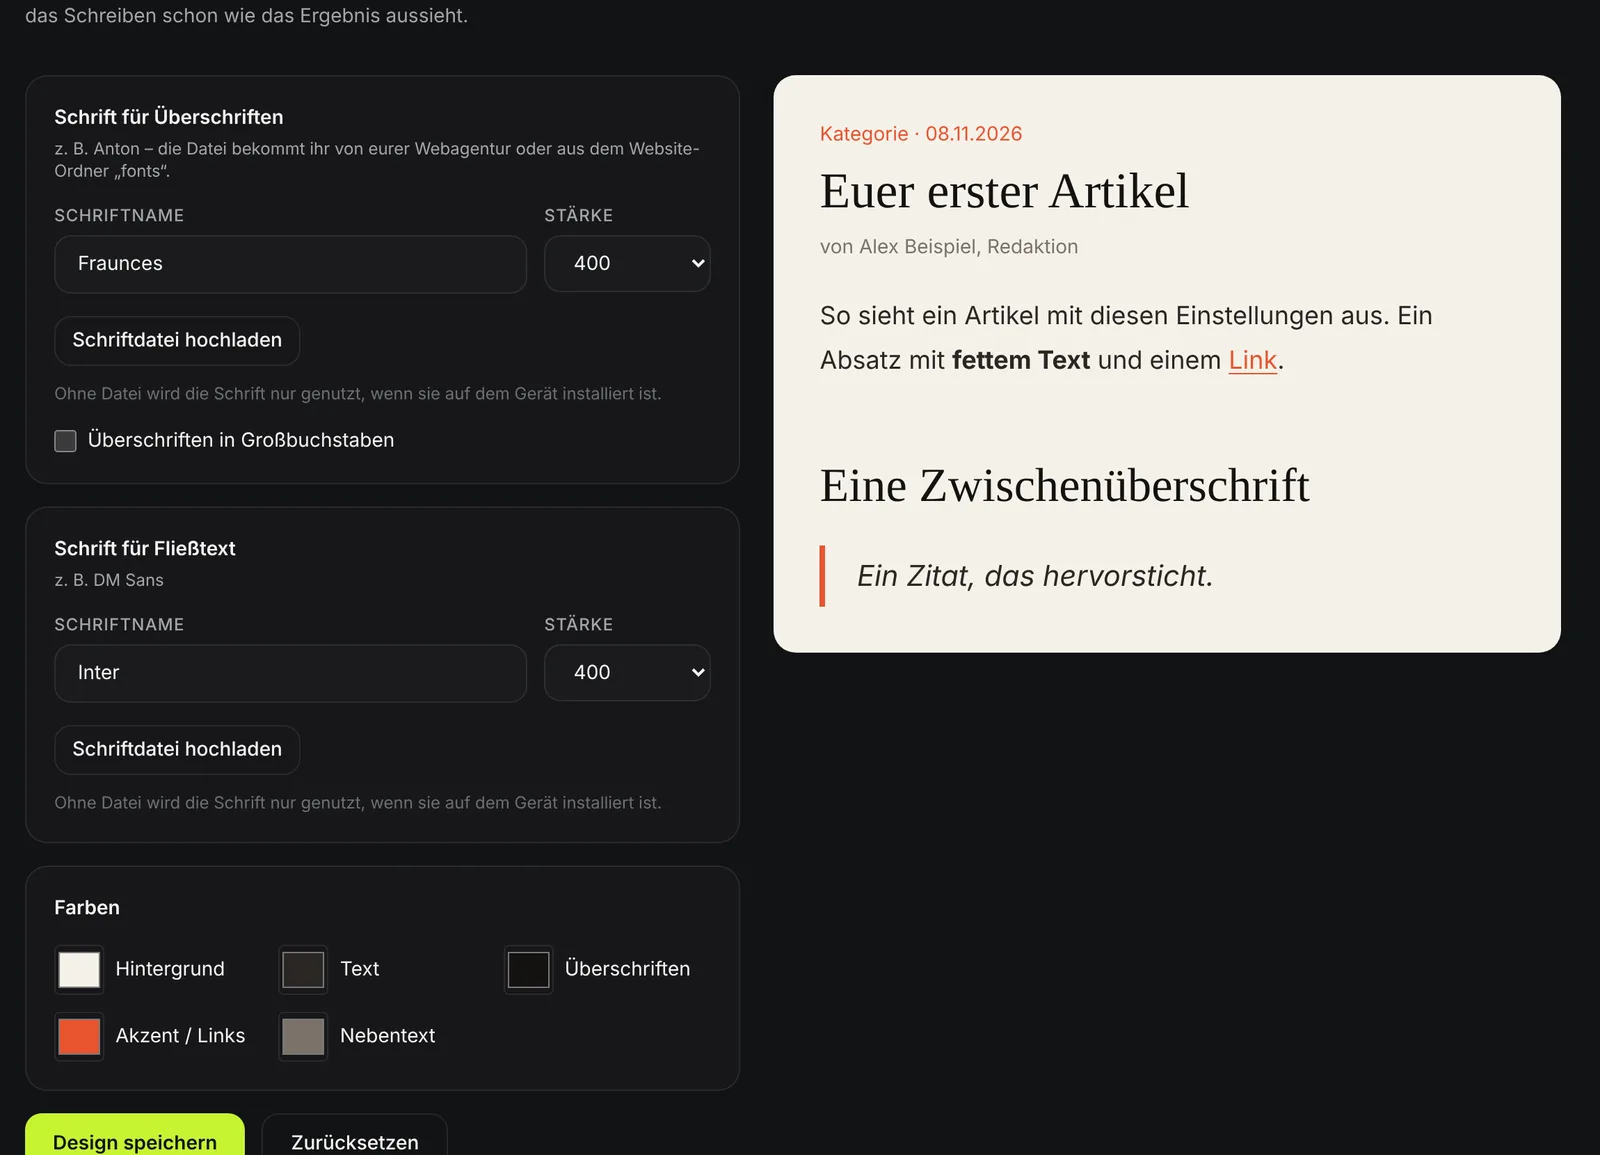
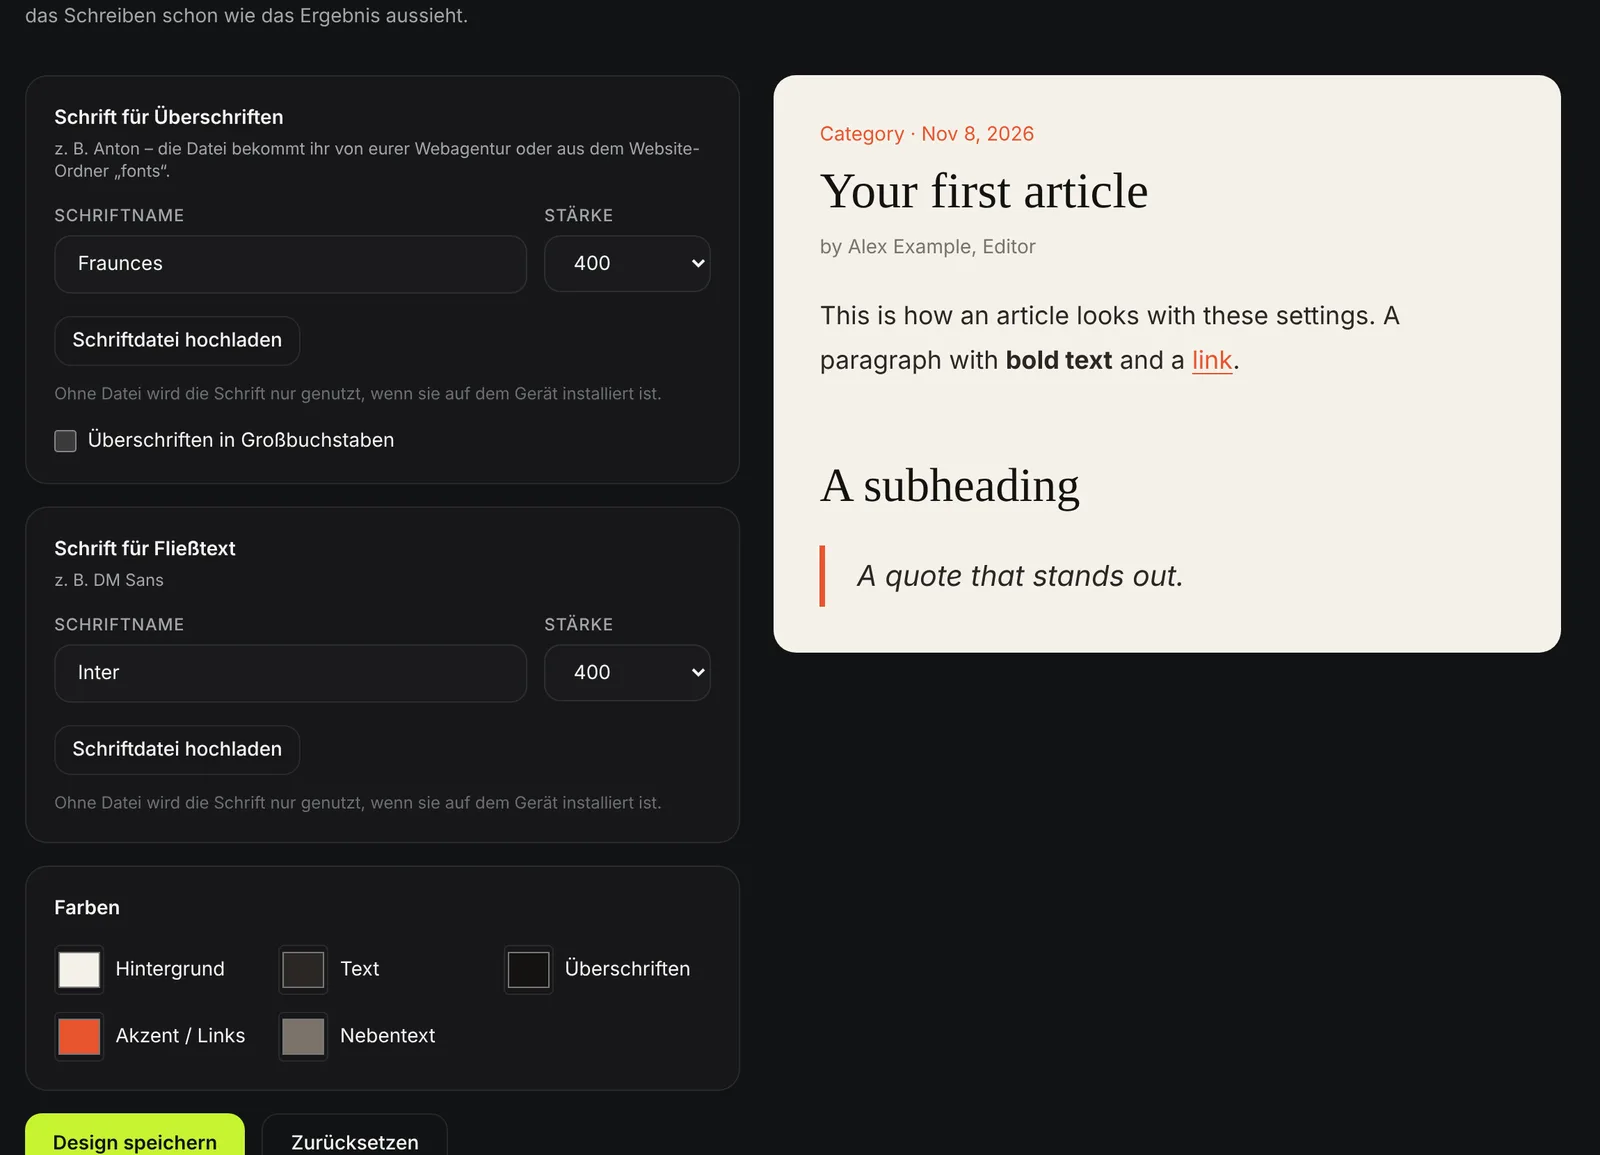
Produktseite Blog: eigene Bilder, englische Beispiele, Artikel-Abschnitt

diff --git a/products/codenova-blog.html b/products/codenova-blog.html
@@ -14,7 +14,9 @@
   <meta property="og:title" content="CodeNova Blog – The blog tool that lives on your website">
   <meta property="og:description" content="Write, approve and publish – directly on your own website, in your design. Coming soon.">
   <meta property="og:url" content="https://codenovalabs.net/products/codenova-blog">
-  <meta property="og:image" content="https://codenovalabs.net/assets/img/blog/site.webp">
+  <meta property="og:image" content="https://codenovalabs.net/assets/img/blog/og-blog.jpg">
+  <meta property="og:image:width" content="1200">
+  <meta property="og:image:height" content="630">
   <meta name="twitter:card" content="summary_large_image">
   <link rel="preload" href="/assets/fonts/space-grotesk-latin-700-normal.woff2" as="font" type="font/woff2" crossorigin>
   <link rel="stylesheet" href="/assets/style.css?v=4">
@@ -49,6 +51,7 @@
   <main>
     <!-- Hero -->
     <section class="p-hero">
+      <div class="p-hero-media" aria-hidden="true"><img src="/assets/img/blog/blog-hero.webp" alt="" width="1376" height="768" fetchpriority="high"></div>
       <div class="bg" aria-hidden="true"></div>
       <div class="wrap">
         <div>
@@ -126,10 +129,32 @@
       </div>
     </section>
 
-    <!-- Freigabe & Design -->
+    <!-- Auf der Kundenseite -->
     <section class="divider">
       <div class="wrap">
         <div class="shot flip reveal">
+          <figure class="browser">
+            <div class="bar" aria-hidden="true"><i></i><i></i><i></i><span>your-website.com/journal?artikel=five-lessons</span></div>
+            <img src="/assets/img/blog/article.webp" width="1400" height="1465" loading="lazy" alt="A published article on a studio website with cover photo, text, subheading and an author box with portrait">
+          </figure>
+          <div>
+            <span class="label">on your website</span>
+            <h3>Readers never leave your site.</h3>
+            <p>Every article opens right on your own website – with your header, your navigation and your footer. Author boxes with photo and bio give your writers a face.</p>
+            <ul class="checks">
+              <li>Overview with category filters and “load more”</li>
+              <li>Article pages with reading time and author box</li>
+              <li>Page title, description and structured data for Google</li>
+            </ul>
+          </div>
+        </div>
+      </div>
+    </section>
+
+    <!-- Freigabe & Design -->
+    <section class="divider">
+      <div class="wrap">
+        <div class="shot reveal">
           <figure class="browser">
             <div class="bar" aria-hidden="true"><i></i><i></i><i></i><span>blog.codenovalabs.net · design</span></div>
             <img src="/assets/img/blog/design.webp" width="1600" height="1155" loading="lazy" alt="Design settings in CodeNova Blog: heading and body fonts, colour pickers and a live preview of an article">

diff --git a/assets/style.css b/assets/style.css
@@ -459,3 +459,7 @@ footer address { font-style: normal; line-height: 1.7; }
   .p-hero { padding: 56px 0 48px; }
 }
 @media (min-width: 640px) and (max-width: 960px) { .features { grid-template-columns: repeat(2, minmax(0, 1fr)); } }
+
+.p-hero-media { position: absolute; inset: 0; z-index: -2; overflow: hidden; }
+.p-hero-media img { width: 100%; height: 100%; object-fit: cover; object-position: 70% 40%; opacity: 0.24; }
+.p-hero-media::after { content: ""; position: absolute; inset: 0; background: linear-gradient(90deg, var(--graphite) 0%, rgba(18, 19, 20, 0.85) 38%, rgba(18, 19, 20, 0.35) 100%), linear-gradient(180deg, transparent 70%, var(--graphite) 100%); }
